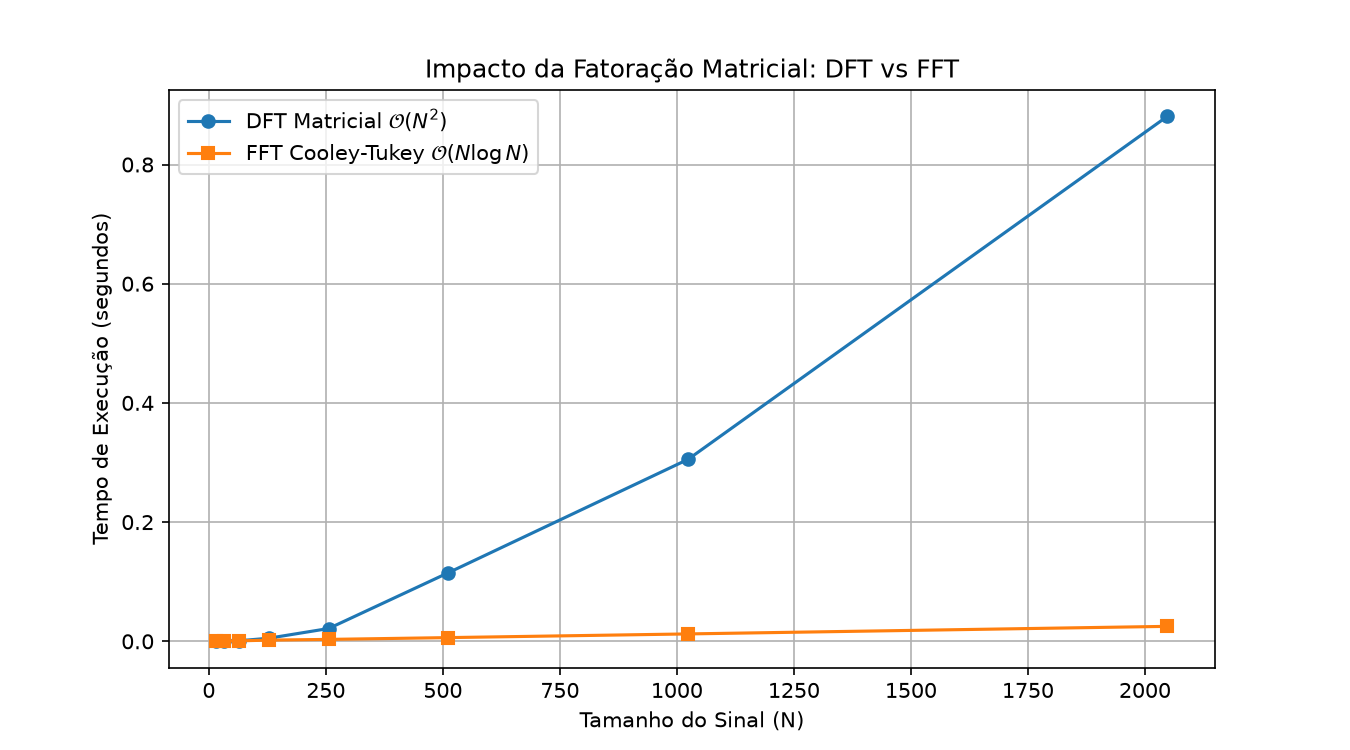
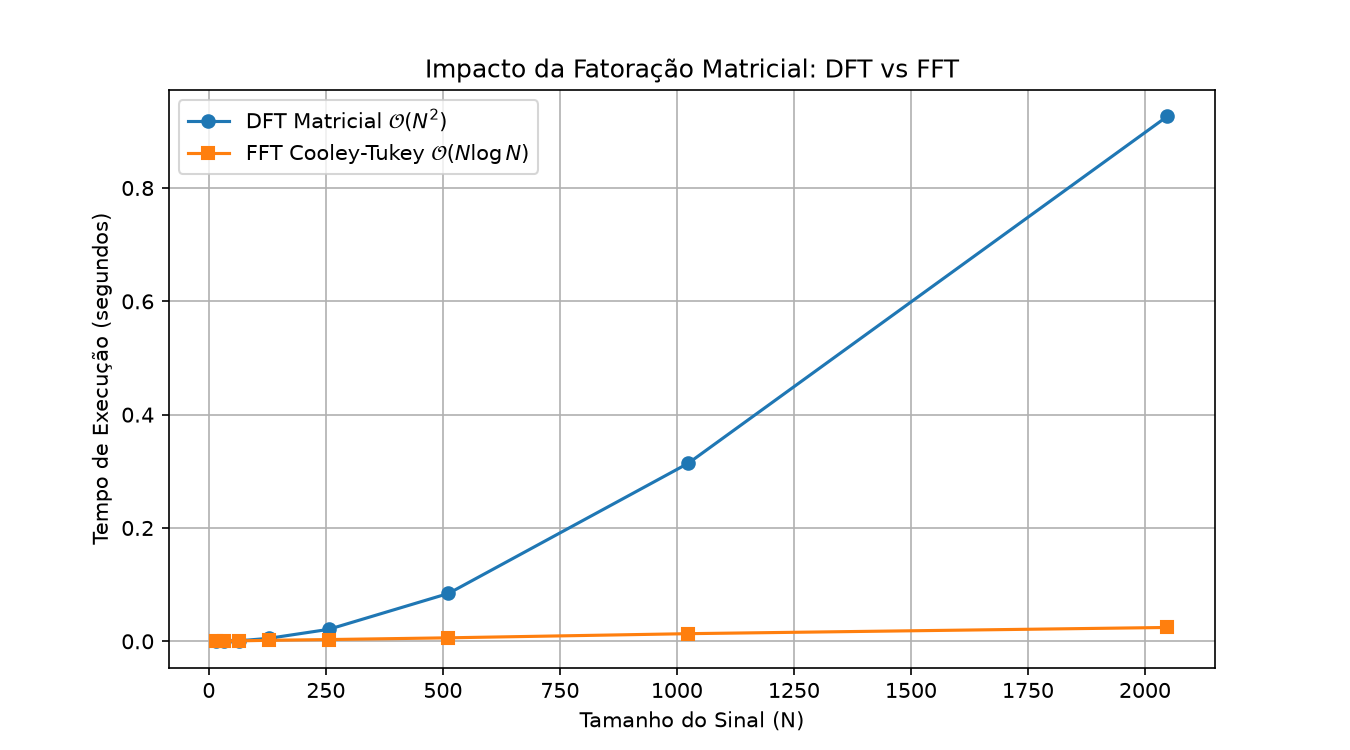
Completa implementação e validações da FFT

diff --git a/slides/apresentacao_fft.html b/slides/apresentacao_fft.html
@@ -258,7 +258,7 @@
               $$\text{Operações Aritméticas} = N^2$$
             </div>
             <p class="text-xs text-gray-400">
-              Para um sinal de áudio de 1 minuto ($N \approx 2{,}6 \times 10^6$), teríamos $\approx 7 \times 10^{12}$ operações. Inviável em tempo real sem uma fatoração inteligente!
+              Para um sinal monofônico de 1 minuto a 44,1 kHz ($N = 2{,}646{,}000$), a multiplicação matricial direta envolve da ordem de $N^2$ produtos. É uma contagem teórica; o tempo real depende da implementação e do hardware.
             </p>
           </div>
         </div>
@@ -318,7 +318,7 @@
         <div class="grid grid-cols-1 md:grid-cols-3 gap-4 text-xs">
           <div class="p-4 bg-gray-900/80 border border-gray-800 rounded-xl space-y-2">
             <h4 class="font-bold text-white uppercase tracking-wider text-[11px] text-blue-400">1. Permutação ($P_N$)</h4>
-            <p class="text-gray-300">Matriz ortogonal de permutação ($P_N^T P_N = I$). Reordena o vetor separando pares no topo e ímpares na base. Custo de computação: <strong>zero</strong> (endereçamento de memória).</p>
+            <p class="text-gray-300">Matriz de permutação ($P_N^T P_N = I$). Reordena o vetor separando pares no topo e ímpares na base; não exige produtos aritméticos, embora mover ou acessar os dados tenha custo.</p>
           </div>
           <div class="p-4 bg-gray-900/80 border border-gray-800 rounded-xl space-y-2">
             <h4 class="font-bold text-white uppercase tracking-wider text-[11px] text-indigo-400">2. Blocos ($F_{N/2}$)</h4>
@@ -354,7 +354,7 @@
               <h3 class="font-semibold text-white text-sm mb-2">Permutação por Reversão de Bits</h3>
               <p>Ao desdobrar toda a recursão, os índices sofrem espelhamento binário:</p>
               <p class="font-mono text-emerald-400 mt-1">Ex ($N=8$): $1 = 001_2 \xrightarrow{\text{inversão}} 100_2 = 4$</p>
-              <p class="mt-1 text-gray-400">Permite computar a FFT <em>in-place</em> sem consumo extra de memória RAM.</p>
+              <p class="mt-1 text-gray-400">Algumas implementações radix-2 usam essa permutação para calcular <em>in-place</em>; isso depende da organização do algoritmo.</p>
             </div>
           </div>
 
@@ -391,13 +391,13 @@
           </div>
 
           <div class="p-5 bg-gray-900/80 border border-gray-800 rounded-2xl space-y-3">
-            <h3 class="font-semibold text-emerald-400 text-sm">Aceleração Relativa</h3>
+            <h3 class="font-semibold text-emerald-400 text-sm">Razão Teórica de Operações</h3>
             <div class="font-mono text-emerald-300 text-xs p-3 bg-gray-950 rounded-lg">
               $$\text{Speedup} \approx \frac{2N}{\log_2 N}$$
             </div>
             <ul class="text-xs text-gray-300 space-y-1">
-              <li>• A vantagem prática depende da implementação, do hardware e do tamanho do vetor.</li>
-              <li>• O gráfico abaixo deve ser interpretado como uma medição deste ambiente.</li>
+              <li>• A razão estima contagens assintóticas, não um speedup medido.</li>
+              <li>• O gráfico do script é uma medição local e depende do ambiente.</li>
             </ul>
           </div>
 
@@ -465,7 +465,7 @@
           </div>
           <div class="p-4 bg-gray-900/80 border border-gray-800 rounded-xl space-y-2">
             <span class="text-emerald-400 font-bold">3. Reconstrução IFFT</span>
-            <p class="text-gray-300">Multiplicação por $F_N^*/N$ sintetiza novamente o sinal puro no tempo com restauração perfeita da forma de onda original.</p>
+            <p class="text-gray-300">A IFFT reconstrói o sinal após a máscara. Neste exemplo sintético, o tom de 4.000 Hz é removido e o componente de 440 Hz é preservado.</p>
           </div>
         </div>
       </div>
@@ -512,7 +512,7 @@
       <div class="space-y-6">
         <div>
           <span class="text-xs font-bold text-purple-400 uppercase tracking-wider">Processamento Visual</span>
-          <h2 class="text-3xl font-bold text-white mt-1">Filtragem Espacial e Compressão de Imagens (`03_image_2dfft.py`)</h2>
+          <h2 class="text-3xl font-bold text-white mt-1">Filtragem e Redução de Coeficientes (`03_image_2dfft.py`)</h2>
         </div>
 
         <div class="grid grid-cols-1 md:grid-cols-2 gap-6 items-center">
@@ -529,12 +529,12 @@
           </div>
 
           <div class="p-5 bg-gray-950 border border-gray-800 rounded-2xl text-xs space-y-3">
-            <div class="font-bold text-emerald-400 text-sm">O Princípio da Compressão de Imagens</div>
+            <div class="font-bold text-emerald-400 text-sm">Demonstração de Redução de Coeficientes</div>
             <p class="text-gray-300">
-              A concentração de energia nos coeficientes centrais varia conforme a imagem e deve ser medida no experimento.
+              A concentração de energia varia conforme a imagem. Zerar coeficientes de menor magnitude ilustra esparsificação espectral; não implementa um codificador nem mede o tamanho de um arquivo comprimido.
             </p>
             <div class="p-3 bg-gray-900 rounded-lg text-gray-400 font-mono text-[11px]">
-              O script usa um limiar de magnitude e informa o percentual mantido e o erro relativo de reconstrução.
+              O script compara esse limiar com a filtragem passa-baixa e informa o percentual mantido e o erro relativo de reconstrução.
             </div>
           </div>
         </div>
@@ -553,11 +553,11 @@
           <div class="space-y-4 text-xs text-gray-300">
             <div class="p-4 bg-gray-900/80 border border-gray-800 rounded-xl">
               <h3 class="font-semibold text-white text-sm mb-1">Vídeo como Tensor 3D</h3>
-              <p>Sequência de matrizes temporais $A_t$. Transmitir $30$ quadros 4K/s sem compressão exigiria conexões de dezenas de Gigabits por segundo.</p>
+              <p>Uma sequência de quadros $A_t$ forma um sinal com dimensões espaciais e temporais. Vídeo sem compressão pode exigir alta largura de banda, conforme resolução, taxa de quadros e representação de cor.</p>
             </div>
             <div class="p-4 bg-gray-900/80 border border-gray-800 rounded-xl">
               <h3 class="font-semibold text-white text-sm mb-1">A DCT e Codecs Modernos</h3>
-              <p>JPEG e alguns padrões de vídeo usam variantes da Transformada Discreta de Cosseno em blocos. DCT e FFT são transformadas distintas, embora relacionadas matematicamente.</p>
+              <p>JPEG e alguns padrões de vídeo usam variantes da Transformada Discreta de Cosseno em blocos. A DCT é uma transformação distinta, com base de cossenos; não é uma versão real da FFT.</p>
             </div>
           </div>
 
@@ -586,7 +586,7 @@
         <div class="grid grid-cols-1 sm:grid-cols-2 lg:grid-cols-4 gap-4 text-xs">
           <div class="p-4 bg-gray-900/80 border border-gray-800 rounded-xl space-y-2">
             <div class="text-blue-400 font-bold text-sm">Telecomunicações</div>
-            <p class="text-gray-300">Modulação OFDM em 4G, 5G e Wi-Fi 6. Milhões de FFTs e IFFTs executadas por segundo no silício dos celulares.</p>
+            <p class="text-gray-300">Sistemas OFDM, usados em padrões de comunicação como 4G, 5G e Wi-Fi, empregam FFTs e IFFTs em suas cadeias de processamento.</p>
           </div>
           <div class="p-4 bg-gray-900/80 border border-gray-800 rounded-xl space-y-2">
             <div class="text-purple-400 font-bold text-sm">Medicina Diagnóstica</div>
@@ -594,7 +594,7 @@
           </div>
           <div class="p-4 bg-gray-900/80 border border-gray-800 rounded-xl space-y-2">
             <div class="text-indigo-400 font-bold text-sm">Mídia Digital</div>
-            <p class="text-gray-300">Formatos MP3, AAC, JPEG e codecs de streaming de vídeo (YouTube, Netflix) dependem da projeção em frequências.</p>
+            <p class="text-gray-300">JPEG usa DCT; MP3 e AAC usam variantes da DCT. Essas transformadas são distintas da DFT, embora compartilhem ferramentas matemáticas relacionadas.</p>
           </div>
           <div class="p-4 bg-gray-900/80 border border-gray-800 rounded-xl space-y-2">
             <div class="text-emerald-400 font-bold text-sm">Computação Científica</div>
@@ -603,7 +603,7 @@
         </div>
 
         <div class="p-4 bg-gray-950 border border-gray-800 rounded-xl text-center text-xs text-gray-400">
-          Classificado pelo IEEE e AIP como um dos 10 algoritmos de maior impacto técnico e científico de todo o Século XX.
+          A FFT é uma ferramenta importante em processamento de sinais, telecomunicações e computação científica.
         </div>
       </div>
     </div>
@@ -628,7 +628,7 @@
             </div>
             <div class="p-4 bg-gray-900/80 border border-gray-800 rounded-xl space-y-1">
               <span class="text-emerald-400 font-mono font-bold">03_image_2dfft.py</span>
-              <p class="text-gray-300">Decomposição 2D, espectro centralizado por `fftshift` e compressão espacial.</p>
+              <p class="text-gray-300">Decomposição 2D, filtragem passa-baixa e demonstração de redução de coeficientes por magnitude.</p>
             </div>
           </div>
 
@@ -710,18 +710,18 @@
       2: "Para iniciar, estabelecemos o nosso espaço de trabalho. Qualquer sinal físico digitalizado — seja uma gravação sonora de alguns milissegundos ou uma linha de pixels — consiste em uma sequência finita de N medições numéricas. Matematicamente, esse conjunto ordenado define um vetor coluna x pertencente ao espaço vetorial complexo C^N. A representação ordinária de um sinal no tempo utiliza a base canônica ortonormal padrão: cada componente x_n informa apenas a amplitude instantânea no instante n. Contudo, a base canônica é míope para periodicidades. Se quisermos inspecionar a composição harmônica do sinal, devemos projetar esse vetor x em uma nova base ortogonal {v_k} cujos elementos básicos correspondam a frequências puras. Trata-se, portanto, de uma transformação linear canônica T: C^N -> C^N.",
       3: "Para construir essa nova base, recorremos à raiz primitiva N-ésima da unidade, denotada por omega_N. Geometricamente, as potências de omega_N particionam o círculo unitário no plano complexo em N arcos idênticos. O k-ésimo vetor da base espectral, v_k, é preenchido com progressões geométricas dessas potências. A propriedade que torna toda a teoria consistente é a ortogonalidade sob o produto interno hermitiano padrão. Quando calculamos o produto interno entre dois vetores distintos v_k e v_l, deparamo-nos com a soma de uma série geométrica finita de razão unitária complexa. Para qualquer k diferente de l, a soma fecha um polígono regular no plano complexo e resulta rigorosamente em zero. Quando k = l, a soma de N termos iguais a 1 resulta no escalar N. Logo, os vetores formam um conjunto ortogonal e, portanto, uma base para C^N.",
       4: "Reunindo os vetores transpostos conjugados dessa base nas linhas de uma matriz, sintetizamos a célebre Matriz de Fourier F_N. Trata-se de uma matriz de Vandermonde simétrica cujos geradores são as potências de omega_N. Cada linha k age como um correlacionador espectral: quando multiplicamos a linha k pelo vetor do sinal temporal x, estamos projetando o sinal sobre a frequência k. Observem a beleza de F_4: as potências de omega_4 = -i alternam entre 1, -i, -1 e i. A Transformada Discreta de Fourier não exige integração numérica nem limites infinitesimais: ela é estritamente um operador linear matricial finito operando sobre vetores.",
-      5: "Uma consequência estrutural vital da ortogonalidade é que a matriz transposta conjugada de F_N, multiplicada por ela mesma, resulta em N vezes a matriz identidade. Isso significa que, a menos de um fator de escala 1/sqrt(N), a matriz de Fourier é unitária. Por conseguinte, a transformação inversa, que reconstrói o sinal no tempo, não requer a inversão gaussiana custosa de uma matriz comum: basta tomar a sua conjugada complexa e dividir por N. Além disso, pelo Teorema de Parseval, a energia vetorial euclidiana é perfeitamente preservada. No entanto, deparamo-nos com uma barreira computacional intransponível: para avaliar X = F_N x, uma multiplicação matricial cheia exige N^2 operações elementares com números complexos. Para um vetor de apenas um milhão de pontos, precisaríamos de um trilhão de operações. É exatamente aqui que a Álgebra Linear intervém com a fatoração esparsa de Cooley-Tukey, que o Francisco apresentará agora.",
+      5: "Uma consequência estrutural da ortogonalidade é que a matriz transposta conjugada de F_N, multiplicada por ela mesma, resulta em N vezes a matriz identidade. Assim, após normalização por 1/sqrt(N), a matriz de Fourier é unitária. A transformada inversa pode ser calculada pela conjugada complexa dividida por N. Pelo Teorema de Parseval, a norma do espectro não normalizado é sqrt(N) vezes a norma do sinal. A multiplicação matricial direta tem custo da ordem de N^2; a fatoração de Cooley-Tukey reduz esse custo para tamanhos apropriados.",
       6: "Obrigado, Estevão. Em 1965, J. W. Cooley e John Tukey formalizaram um método que revolucionou a computação moderna, embora raízes dessa intuição remontem aos rascunhos astronômicos de Gauss em 1805. A ideia central reside no particionamento do vetor temporal de entrada em duas metades: uma constituída exclusivamente pelos índices pares e outra pelos índices ímpares. Quando reescrevemos a somatória da DFT separando índices pares de ímpares, podemos colocar em evidência um fator escalar omega_N^k. Como a raiz da unidade ao quadrado satisfaz omega_N^2 = omega_{N/2}, cada uma dessas somatórias menores transforma-se rigorosamente em uma Transformada Discreta de Fourier independente de dimensão N/2. Contudo, para nós, alunos de Álgebra Linear, o aspecto fascinante não é a somatória escalar recursiva, mas como essa operação se traduz em termos de fatoração matricial estruturada.",
-      7: "Eis o ápice teórico do algoritmo: a representação matricial exata da decomposição de Cooley-Tukey. A matriz cheia F_N decompõe-se no produto de três matrizes especializadas. À direita, a matriz P_N é uma matriz de permutação que reordena o vetor de entrada, posicionando todos os elementos pares no topo e os ímpares na base. A matriz intermediária é diagonal por blocos: ela executa simultaneamente duas transformadas de Fourier de ordem reduzida N/2, sem qualquer acoplamento entre elas. À esquerda, temos a matriz de recombinação, composta por matrizes identidade e uma matriz diagonal Omega_{N/2}, cujos elementos diagonais são os fatores de rotação, os chamados twiddle factors. Por que essa fatoração é formidável? Porque nenhuma dessas matrizes é densa. Multiplicar por uma matriz de permutação custa zero operações aritméticas — apenas endereçamento de ponteiros. Multiplicar por uma matriz diagonal custa apenas N/2 operações. Substituímos matrizes cheias por matrizes com densidade esparsa.",
-      8: "Quando expandimos essa fatoração até os blocos atômicos de dimensão 2, a recursão gera o que denominamos Grafo em Borboleta. Cada estágio elementar consiste em uma operação extremamente barata: pega-se um par de valores complexos, multiplica-se um deles pelo fator omega_N^k, soma-se ao primeiro para gerar a saída superior e subtrai-se para gerar a inferior. Observem que a matriz de permutação composta resultante de toda a recursão possui uma propriedade combinatória notável: a permutação por reversão de bits, ou bit-reversal. O elemento de índice 1 em binário de 3 bits, 001, tem seus dígitos espelhados para 100, que é o índice 4. Isso permite aos processadores modernos realizar a transformada in-place, sem demandar alocação adicional de memória vetorial.",
+      7: "A fatoração de Cooley-Tukey expressa F_N como o produto de uma permutação, uma matriz diagonal por blocos com submatrizes F_{N/2}, e uma matriz de recombinação com fatores de rotação. As submatrizes menores ainda são densas; a economia vem da aplicação recursiva da fatoração, não de afirmar que cada fator é esparso. A permutação não requer produtos aritméticos, embora acessar ou mover os dados tenha custo. Os fatores diagonais reduzem a quantidade de operações em cada etapa.",
+      8: "Ao expandir a fatoração até os blocos de dimensão 2, obtemos o grafo em borboleta. Cada etapa combina um par de valores com um fator omega_N^k e produz uma soma e uma diferença. A permutação por reversão de bits aparece em implementações radix-2 iterativas; por exemplo, 001 em três bits se torna 100. Algumas implementações usam essa organização para calcular in-place, mas isso depende do algoritmo e não é uma propriedade de toda FFT.",
       9: "O script 01_dft_vs_fft.py calcula um benchmark local entre a DFT matricial e a implementação Cooley-Tukey. A recorrência T(N) = 2T(N/2) + O(N) explica a complexidade O(N log N), enquanto a multiplicação matricial direta tem custo O(N^2). Os tempos exibidos no gráfico dependem do ambiente de execução e não são resultados universais. Agora veremos aplicações em áudio e imagens.",
-      10: "Obrigada, Francisco. Entrando no campo das aplicações computacionais, o primeiro grande domínio transformado pela FFT é o processamento de áudio. Uma gravação de voz ou instrumento musical nada mais é do que uma sucessão de flutuações de pressão acústica amostradas no tempo. Na taxa padrão de estúdio de 44,1 kHz, um único minuto de áudio monofônico gera mais de dois milhões e meio de pontos. Se dependêssemos da matriz densa O(N^2) apresentada pelo Estevão, seria matematicamente impossível aplicar um equalizador ou decodificar áudio em tempo real. Graças à FFT, particionamos esse vetor em janelas temporais de N = 1024 ou 2048 pontos e calculamos o espectro instantâneo em frações de milissegundo, permitindo identificar com precisão cirúrgica a amplitude e a fase de cada harmônico presente.",
-      11: "No script 02_audio_filtering.py, geramos uma senoide de 440 Hz e adicionamos uma interferência de 4000 Hz. A máscara passa-baixa remove as frequências acima de 1000 Hz antes da IFFT. Como se trata de um experimento sintético e de um filtro ideal, a reconstrução se aproxima do sinal original; o resultado não deve ser generalizado para qualquer gravação ou ruído.",
+      10: "Obrigada, Francisco. No processamento de áudio, uma gravação é uma sequência de amostras da pressão sonora. A 44,1 kHz, um minuto de áudio monofônico contém 2.646.000 amostras. Calcular uma DFT densa para esse vetor seria muito caro; na prática, sistemas usam FFTs, frequentemente sobre janelas, e o desempenho depende do tamanho, da implementação e do hardware.",
+      11: "No script 02_audio_filtering.py, geramos uma senoide de 440 Hz e adicionamos uma interferência tonal de 4000 Hz. A máscara passa-baixa remove as frequências acima de 1000 Hz antes da IFFT. Como se trata de um experimento sintético, esse resultado não deve ser generalizado para qualquer gravação ou ruído.",
       12: "Avançando para duas dimensões, uma imagem em escala de cinza nada mais é do que uma matriz de intensidades de luminosidade A. Como estendemos a formulação de Fourier para matrizes? Pela propriedade de separabilidade linear. A Transformada Discreta de Fourier Bidimensional pode ser expressa elegantemente como a multiplicação da matriz de imagem A pela matriz de Fourier F_M à esquerda e pela transposta F_N^T à direita. Isso equivale matematicamente a aplicar a FFT 1D ao longo de cada uma das linhas da matriz e, sucessivamente, aplicar a FFT 1D ao longo de cada uma das colunas. As baixas frequências espaciais correspondem a transições suaves de cor e áreas homogêneas de fundo; já as altas frequências codificam contornos abruptos, arestas, detalhes finos e ruídos pontuais.",
-      13: "No script 03_image_2dfft.py, separamos duas operações. A máscara circular passa-baixa realiza filtragem espacial; uma máscara de magnitude realiza compressão. O programa informa o percentual de coeficientes mantidos e o erro relativo da reconstrução, pois esses valores dependem da imagem e do limiar escolhido.",
-      14: "Em vídeo digital, quadros podem ser analisados como matrizes empilhadas no tempo. Este repositório não implementa um codec de vídeo. JPEG e alguns padrões de vídeo usam variantes da DCT, que é distinta da FFT. A correlação via FFT é uma técnica possível para comparar imagens, mas a escolha depende do algoritmo e do codec.",
-      15: "(Estevão): Para sintetizar o que vimos, a Transformada Rápida de Fourier não é uma mera conveniência numérica ou fórmula isolada; trata-se de um monumento da Álgebra Linear aplicada. Ela exemplifica com perfeição como a compreensão geométrica das transformações ortogonais e a manipulação da estrutura matricial de Vandermonde podem contornar barreiras computacionais que pareciam intransponíveis. (Francisco): Sem a redução de complexidade assintótica proporcionada pela fatoração de Cooley-Tukey, tecnologias fundamentais da nossa rotina seriam inviáveis. A modulação OFDM presente em todas as conexões Wi-Fi e redes móveis celulares realiza milhões de FFTs e IFFTs por segundo diretamente no silício dos roteadores e smartphones para multiplexar canais ortogonais de rádio. (Jasmine): Na medicina, as imagens geradas por uma máquina de ressonância magnética capturam originalmente dados de eco nuclear no chamado 'espaço k', que nada mais é do que o domínio espectral de Fourier. A imagem anatômica tridimensional que o médico analisa é obtida aplicando a transformada inversa matricial sobre esses dados brutos.",
-      16: "Em atendimento rigoroso às diretrizes estipuladas para este seminário, todos os algoritmos, provas matriciais, rotinas de benchmark e pipelines de processamento de áudio e imagem foram implementados por nós em Python e estão abertamente disponíveis no repositório GitHub exibido na tela. Os scripts são totalmente reprodutíveis, utilizam apenas bibliotecas numéricas elementares para manipulação matricial e contam com documentação detalhada no arquivo de relatório. Convidamos todos a clonarem o código e realizarem seus próprios experimentos com filtragem de frequências.",
+      13: "No script 03_image_2dfft.py, separamos filtragem e esparsificação: a máscara circular passa-baixa remove altas frequências, enquanto o limiar de magnitude zera coeficientes. Essa segunda operação ilustra redução de coeficientes, não um codificador de imagem. O programa informa percentual preservado e erro relativo de reconstrução.",
+      14: "Em vídeo digital, quadros podem ser analisados como matrizes empilhadas no tempo. Este repositório não implementa um codec de vídeo. JPEG e alguns padrões de vídeo usam variantes da DCT, uma transformação de base de cossenos distinta da DFT e que não é uma versão real da FFT. A correlação via FFT é uma técnica possível, entre outras, para comparar imagens.",
+      15: "(Estevão): A FFT exemplifica como a estrutura de uma transformação linear pode reduzir o custo de calcular a DFT. (Francisco): FFTs e IFFTs são usadas em sistemas OFDM, entre outras aplicações de processamento de sinais. (Jasmine): Em ressonância magnética, os dados adquiridos no espaço k estão relacionados à representação de Fourier da imagem; a reconstrução envolve processamento apropriado desses dados, que pode incluir transformadas inversas.",
+      16: "O repositório contém os scripts de demonstração em Python, seus resultados gerados e o relatório técnico. O benchmark fixa a semente dos dados aleatórios, mas os tempos medidos variam conforme o ambiente. Os experimentos de áudio e imagem são sintéticos e têm escopo ilustrativo. Convidamos todos a executarem os programas e compararem os resultados.",
       17: "(Estevão): Encerramos aqui a exposição formal do nosso trabalho. Agradecemos imensamente a atenção de todos e estamos agora à inteira disposição do professor e da turma para responder a quaisquer perguntas, detalhar passagens algébricas da fatoração ou demonstrar a execução ao vivo dos códigos no repositório. Muito obrigado."
     };
 

diff --git a/notebooks/01_dft_vs_fft.py b/notebooks/01_dft_vs_fft.py
@@ -35,7 +35,8 @@ def fft_cooley_tukey(x):
     ])
 
 # 3. Validação numérica contra a implementação do NumPy
-teste = np.random.default_rng(42).normal(size=32) + 1j * np.random.default_rng(43).normal(size=32)
+rng = np.random.default_rng(42)
+teste = rng.normal(size=32) + 1j * rng.normal(size=32)
 resultado_cooley_tukey = fft_cooley_tukey(teste)
 resultado_numpy = np.fft.fft(teste)
 if not np.allclose(resultado_cooley_tukey, resultado_numpy):
@@ -48,7 +49,7 @@ tempos_dft = []
 tempos_fft = []
 
 for N in tamanhos:
-    x = np.random.random(N)
+    x = rng.random(N)
     
     # Tempo DFT
     t0 = time.perf_counter()

diff --git a/notebooks/relatorio.md b/notebooks/relatorio.md
@@ -58,27 +58,20 @@ Essa decomposição reduz o custo assintótico de O(N²) para O(N log₂ N), poi
 
 
 ### 4.1 Processamento e Filtragem de Áudio (1D)
-Um sinal temporal acústico composto por harmônicos e ruído aditivo de alta frequência é transformado ao domínio espectral via FFT. Cria-se uma matriz diagonal de filtragem H, onde frequências acima do limiar são zeradas. O sinal limpo é obtido por IFFT.
+O script gera uma senoide de 440 Hz e adiciona uma interferência tonal de 4.000 Hz. A DFT/FFT representa o sinal no domínio da frequência; uma máscara passa-baixa zera os bins acima de 1.000 Hz, e a transformada inversa reconstrói o sinal filtrado. Este exemplo sintético ilustra filtragem, não remoção universal de ruído.
 
-### 4.2 Processamento e Compressão de Imagens (2D-FFT)
+### 4.2 Processamento de Imagens (2D)
+Uma imagem digital em tons de cinza é uma matriz A. Sua DFT bidimensional pode ser expressa como F_M A F_Nᵀ, ou calculada aplicando transformadas unidimensionais às linhas e colunas. No script, uma máscara radial de baixas frequências realiza filtragem. Separadamente, um limiar de magnitude zera coeficientes e permite avaliar a proporção preservada e o erro relativo de reconstrução; isso ilustra esparsificação espectral, não um formato completo de arquivo comprimido.
 
-## 6. Referências
+## 5. DFT, FFT e DCT
+A DFT é a transformação linear que converte uma sequência finita em coeficientes complexos da base de Fourier. A FFT não é outra transformação: é uma família de algoritmos eficientes para calcular a mesma DFT, como a fatoração recursiva de Cooley-Tukey para tamanhos apropriados. Já a DCT (Transformada Discreta de Cosseno) usa uma base de cossenos e é uma transformação distinta; não é uma versão real da FFT. DCT e DFT podem ter algoritmos rápidos relacionados, mas não devem ser confundidas.
 
-* STRANG, Gilbert. *Introduction to Linear Algebra*. Seção 3.5.
-* ANTON, Howard; RORRES, Chris. *Álgebra Linear com Aplicações*. Seção 6.6.
-* COOLEY, J. W.; TUKEY, J. W. *An Algorithm for the Machine Calculation of Complex Fourier Series*, 1965.
-Uma imagem digital é tratada como uma matriz A. A transformada bidimensional aplica a DFT nas linhas e nas colunas consecutivamente: Â = F_M * A * F_Nᵀ. No script, a filtragem usa um raio central de baixas frequências, enquanto a compressão usa um limiar de magnitude; percentual mantido e erro relativo são medidos separadamente.
+## 6. Estrutura dos Módulos Práticos
+1. `01_dft_vs_fft.py`: DFT matricial, implementação recursiva de Cooley-Tukey, validação com `numpy.fft.fft` e benchmark local reproduzível.
+2. `02_audio_filtering.py`: geração de sinal com interferência tonal, filtragem espectral e gravação dos WAVs de entrada e saída.
+3. `03_image_2dfft.py`: DFT bidimensional, filtragem passa-baixa e demonstração separada de limiar por magnitude, com percentual preservado e erro de reconstrução.
 
----
-
-## 5. Estrutura dos Módulos Práticos
-
-1. `01_dft_vs_fft.py`: Construção da matriz F_N, implementação Cooley-Tukey e medição de tempo comparando O(N²) contra O(N log N).
-2. `02_audio_filtering.py`: Geração de sinal senoidal com ruído em 4 kHz, identificação espectral e atenuação por máscara passa-baixa.
-3. `03_image_2dfft.py`: Decomposição espectral bidimensional, mascaramento radial e reconstrução inversa de imagem.
-
-## 6. Referências
-
-* STRANG, Gilbert. *Introduction to Linear Algebra*. Seção 3.5.
-* ANTON, Howard; RORRES, Chris. *Álgebra Linear com Aplicações*. Seção 6.6.
-* COOLEY, J. W.; TUKEY, J. W. *An Algorithm for the Machine Calculation of Complex Fourier Series*, 1965.
+## 7. Referências
+- STRANG, Gilbert. *Introduction to Linear Algebra*. Seção 3.5.
+- ANTON, Howard; RORRES, Chris. *Álgebra Linear com Aplicações*. Seção 6.6.
+- COOLEY, J. W.; TUKEY, J. W. *An Algorithm for the Machine Calculation of Complex Fourier Series*, 1965.

diff --git a/README.md b/README.md
@@ -24,17 +24,21 @@ Apresentar os fundamentos de álgebra linear por trás da Transformada Discreta 
 
 Python 3.9 ou superior e as dependências listadas em `requirements.txt`.
 
-## 🚀 Como Executar os Scripts
-Clone o repositório e execute com Python 3:
+## Como Executar
+Clone o repositório e instale as dependências:
 ```bash
 git clone https://github.com/jasmineggril/algebra-linear-fft.git
 cd algebra-linear-fft
 python -m pip install -r requirements.txt
+```
+
+Execute cada demonstração com Python 3:
+```bash
 python notebooks/01_dft_vs_fft.py
 python notebooks/02_audio_filtering.py
 python notebooks/03_image_2dfft.py
 ```
 
-Os três scripts imprimem as validações e métricas calculadas e salvam seus resultados em `resultados/`.
+O primeiro script compara a DFT matricial e a FFT Cooley-Tukey, valida os resultados com `np.allclose` e grava `resultados/benchmark_dft_vs_fft.png`. O benchmark mede o ambiente local e usa uma semente fixa para gerar os mesmos dados a cada execução.
 
-O primeiro script compara a implementação recursiva de Cooley-Tukey com `numpy.fft.fft` usando `np.allclose`. O segundo gera `audio_com_ruido.wav` e `audio_filtrado.wav`. O terceiro exibe separadamente a filtragem passa-baixa e a compressão por limiar de magnitude, informando os coeficientes mantidos e o erro relativo de reconstrução.
+O segundo gera `resultados/audio_com_ruido.wav`, `resultados/audio_filtrado.wav` e `resultados/audio_filtering_demo.png`. O terceiro compara filtragem passa-baixa e uma demonstração de redução de coeficientes por limiar de magnitude; informa o percentual preservado e o erro relativo de reconstrução em `resultados/image_filtering_2dfft.png`.
